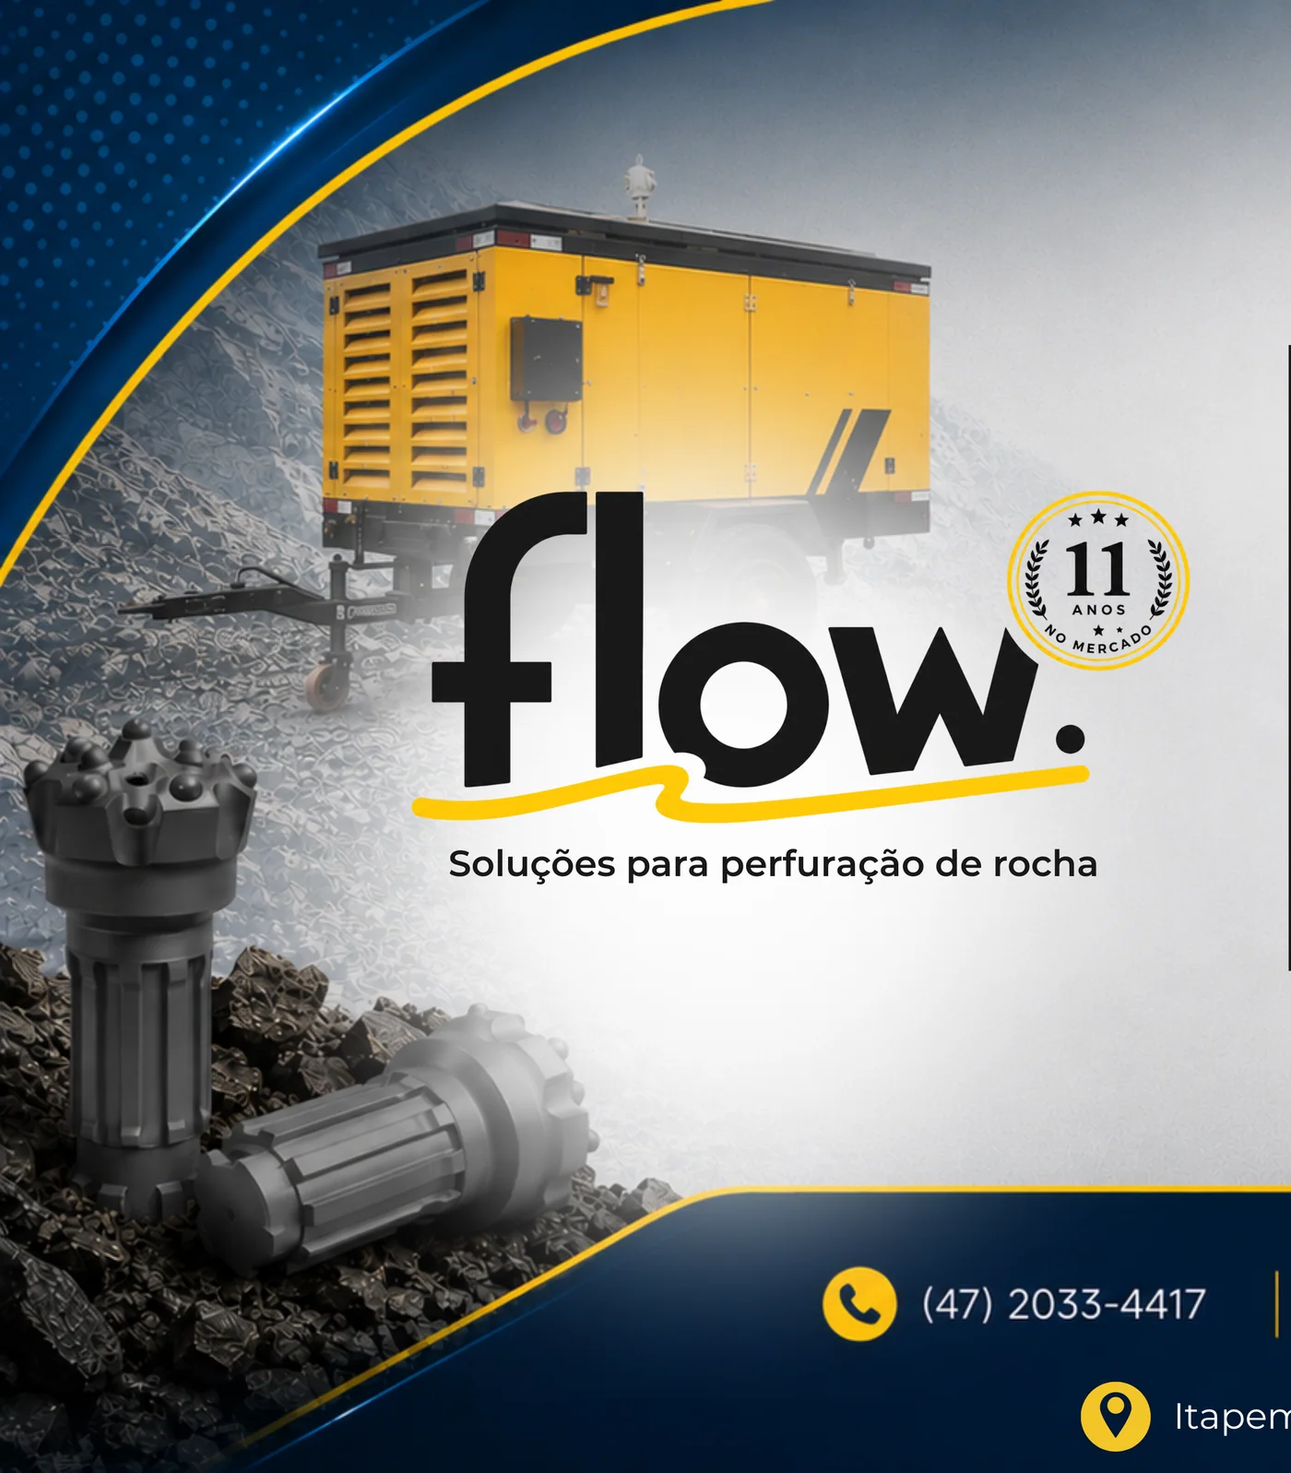
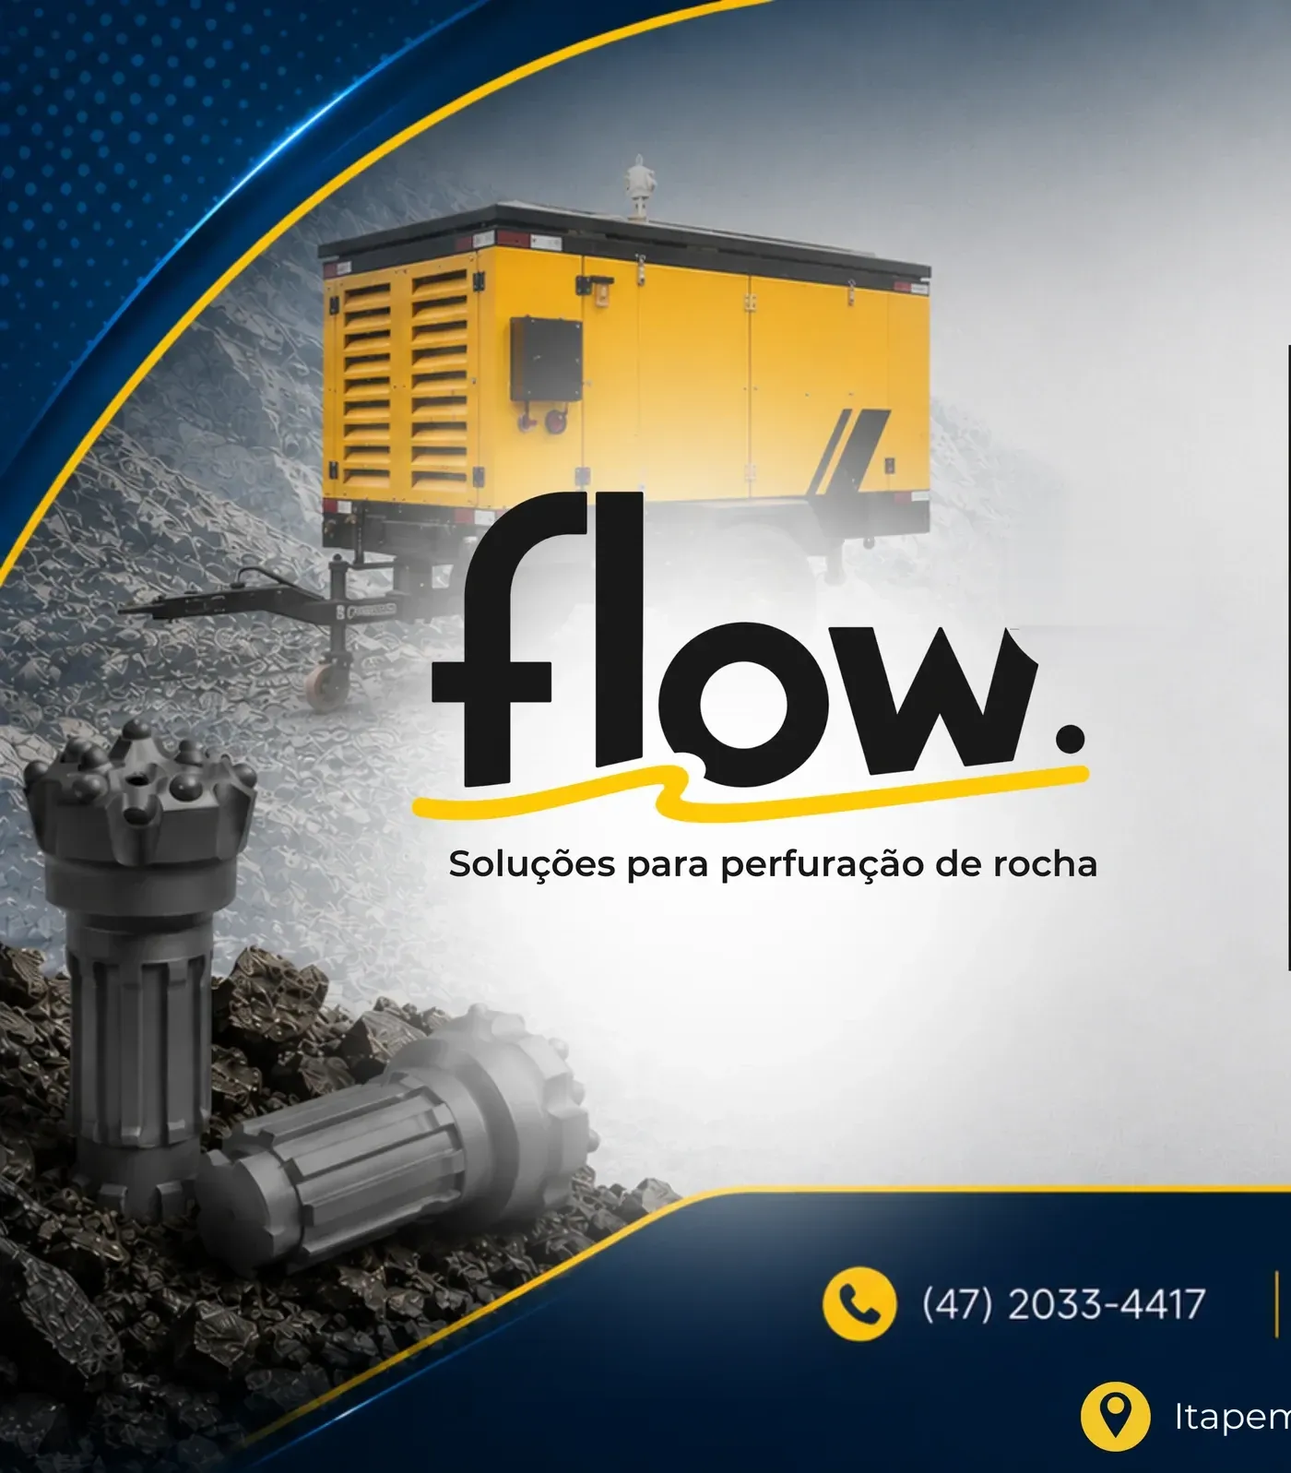
feat: grupo FVT v0.2.1

Changed region(s): [[0.7679, 0.3068, 0.9214, 0.4602]]

diff --git a/flowETritomSite/src/pages/Home.tsx b/flowETritomSite/src/pages/Home.tsx
@@ -20,15 +20,15 @@ const previewIds = ["cir-90", "mission-80", "bit-90", "bomba-4", "tri600", "perf
 const flowPreview = products.filter((p) => previewIds.includes(p.id) && p.brand === "flow");
 const tritonPreview = products.filter((p) => previewIds.includes(p.id) && p.brand === "triton");
 
-/** Miniaturas de produto que aparecem no banner para já sugerir o catálogo de cada marca. */
-const heroThumbs = {
+/** Miniaturas de produto da seção "Sobre o grupo" — já sugerem o catálogo de cada marca. */
+const brandThumbs = {
   flow: [
     { src: "/images/cards/martelo-cir-90.webp", alt: "Martelo DTH CIR 90" },
     { src: "/images/cards/bit-90-mm-cir-90.webp", alt: "Bit 90 mm" },
     { src: "/images/cards/produto-7755.webp", alt: "Motobomba submersa 4 polegadas" },
   ],
   triton: [
-    { src: "/brand/compressor.webp", alt: "Compressor portátil Triton" },
+    { src: "/images/cards/triton-compressor.webp", alt: "Compressor portátil Triton TRI600A-18G2" },
     { src: "/images/cards/img-7101.webp", alt: "Hastes e perfuratriz pneumática" },
     { src: "/images/cards/img-7391.webp", alt: "Bits roscados para desmonte" },
   ],
@@ -39,7 +39,7 @@ function ThumbStrip({ items, ring }: { items: { src: string; alt: string }[]; ri
     <ul className="mt-5 grid grid-cols-3 gap-2">
       {items.map((t) => (
         <li key={t.src} className={`overflow-hidden rounded-xl border ${ring} bg-white`}>
-          <img src={t.src} alt={t.alt} className="aspect-square h-auto w-full object-cover" width={300} height={300} loading="eager" decoding="async" />
+          <img src={t.src} alt={t.alt} className="aspect-square h-auto w-full object-cover" width={300} height={300} loading="lazy" decoding="async" />
         </li>
       ))}
     </ul>
@@ -50,9 +50,109 @@ export function Home() {
   return (
     <main>
       {/* ------------------------------------------------------------------ */}
-      {/* HERO — Flow | Grupo FVT | Triton, com foto de fundo segmentada       */}
+      {/* HERO — painéis Flow | Triton, emblema do Grupo FVT no centro         */}
       {/* ------------------------------------------------------------------ */}
-      <section className="relative overflow-hidden bg-navy text-white" aria-label="Grupo FVT — Flow e Triton">
+      <section className="relative bg-navy" aria-label="Grupo FVT — Flow e Triton">
+        <div className="relative grid lg:min-h-[86vh] lg:grid-cols-2">
+          {/*
+            As artes de fundo (flow-hero / triton-hero, 1400x1597) já trazem a logo de cada marca na faixa
+            central da imagem — por isso não repetimos a logo por cima.
+            Mobile: a arte ocupa os 58% superiores do painel (inteira, sem corte da logo) e o conteúdo fica no
+            terço inferior sobre navy. Desktop: a arte preenche o painel, deslocada para fora do centro
+            (translate de 8%, sem zoom, para preservar as máquinas) para a logo não ficar atrás do emblema FVT; um vignette escurece a costura.
+          */}
+          {/* FLOW */}
+          <article className="relative min-h-[88vh] overflow-hidden bg-navy sm:min-h-[80vh] lg:min-h-0">
+            <img
+              src="/brand/flow-hero.webp"
+              alt="Flow — soluções para perfuração de rocha: compressor e bits DTH"
+              className="absolute inset-x-0 top-0 h-[58%] w-full object-cover object-[70%_center] lg:inset-0 lg:h-full lg:-translate-x-[8%] lg:object-[center_40%]"
+              width={1400}
+              height={1597}
+              fetchPriority="high"
+            />
+            <div className="absolute inset-0 bg-gradient-to-t from-navy from-42% via-navy/85 via-52% to-transparent to-62% lg:from-0% lg:via-navy/75 lg:via-28% lg:to-58%" aria-hidden="true" />
+            <div className="absolute inset-y-0 right-0 hidden w-[24%] bg-gradient-to-r from-transparent to-navy to-60% lg:block" aria-hidden="true" />
+            <div className="relative flex h-full min-h-[88vh] flex-col justify-end p-6 pb-28 text-white sm:min-h-[80vh] sm:p-10 sm:pb-32 lg:min-h-[86vh] lg:pb-12 lg:pr-36 xl:pr-44">
+              <p className="text-[10px] font-bold uppercase tracking-[0.22em] text-yellow">Marca do Grupo FVT</p>
+              <h2 className="mt-2 max-w-md font-display text-3xl sm:text-4xl">Equipamentos para poços artesianos</h2>
+              <div className="mt-5 flex flex-wrap gap-3">
+                <Link to="/flow" className="rounded-full bg-yellow px-5 py-3 text-sm font-bold text-navy hover:bg-[#ffd54a]">
+                  Ver catálogo Flow
+                </Link>
+                <a href={CATALOG_URL} className="rounded-full border border-white/30 px-5 py-3 text-sm font-bold text-white hover:bg-white/10">
+                  PDF 2025
+                </a>
+              </div>
+              <ul className="mt-5 flex flex-wrap gap-2 text-xs font-semibold uppercase tracking-wide">
+                {flowCategories.slice(1).map((c) => (
+                  <li key={c.id} className="rounded-full bg-white/15 px-3 py-1">
+                    {c.label}
+                  </li>
+                ))}
+              </ul>
+            </div>
+          </article>
+
+          {/* EMBLEMA DO GRUPO FVT — no mobile fica entre os painéis; no desktop, centro exato entre as marcas */}
+          <div className="relative z-10 -mb-10 -mt-24 flex flex-col items-center text-center lg:absolute lg:left-1/2 lg:top-1/2 lg:my-0 lg:-translate-x-1/2 lg:-translate-y-1/2">
+            <div className="rounded-full bg-navy/40 p-2 shadow-[0_30px_80px_rgba(0,0,0,0.55)] ring-1 ring-gold/40 backdrop-blur-sm">
+              <Link to="/grupo-fvt" aria-label="Conhecer o Grupo FVT">
+                <LogoGrupoFVT className="h-40 w-40 sm:h-48 sm:w-48 lg:h-56 lg:w-56 xl:h-64 xl:w-64" />
+              </Link>
+            </div>
+            <h1 className="mt-4 rounded-full bg-navy/80 px-4 py-2 font-display text-sm tracking-[0.12em] text-white shadow-lg ring-1 ring-white/10 backdrop-blur sm:text-base">
+              Flow e Triton. <span className="text-yellow">Um só grupo.</span>
+            </h1>
+          </div>
+
+          {/* TRITON */}
+          <article className="relative min-h-[88vh] overflow-hidden bg-navy sm:min-h-[80vh] lg:min-h-0">
+            <img
+              src="/brand/triton-hero.webp"
+              alt="Triton — máquinas e compressores: perfuratriz em pedreira"
+              className="absolute inset-x-0 top-0 h-[58%] w-full object-cover object-[30%_center] lg:inset-0 lg:h-full lg:translate-x-[8%] lg:object-[center_40%]"
+              width={1400}
+              height={1597}
+              fetchPriority="high"
+            />
+            <div className="absolute inset-0 bg-gradient-to-t from-navy from-42% via-navy/85 via-52% to-transparent to-62% lg:from-0% lg:via-navy/75 lg:via-28% lg:to-58%" aria-hidden="true" />
+            <div className="absolute inset-y-0 left-0 hidden w-[24%] bg-gradient-to-l from-transparent to-navy to-60% lg:block" aria-hidden="true" />
+            {/* Mobile: funde o topo da arte Triton com o emblema que fica na costura entre os painéis */}
+            <div className="absolute inset-x-0 top-0 h-[16%] bg-gradient-to-b from-navy via-navy/70 to-transparent lg:hidden" aria-hidden="true" />
+            <div className="relative flex h-full min-h-[88vh] flex-col justify-end p-6 pt-28 text-white sm:min-h-[80vh] sm:p-10 sm:pt-32 lg:min-h-[86vh] lg:pl-36 lg:pt-10 xl:pl-44">
+              <p className="text-[10px] font-bold uppercase tracking-[0.22em] text-yellow">Marca do Grupo FVT</p>
+              <h2 className="mt-2 max-w-md font-display text-3xl sm:text-4xl">Máquinas e compressores</h2>
+              <div className="mt-5 flex flex-wrap gap-3">
+                <Link to="/triton" className="rounded-full bg-yellow px-5 py-3 text-sm font-bold text-navy hover:bg-[#ffd54a]">
+                  Ver catálogo Triton
+                </Link>
+                <WhatsAppButton href={waLink("Olá! Quero falar com a Triton sobre máquinas e compressores.")} variant="outline">
+                  Falar com vendas
+                </WhatsAppButton>
+              </div>
+              <ul className="mt-5 flex flex-wrap gap-2 text-xs font-semibold uppercase tracking-wide">
+                {tritonCategories.slice(1).map((c) => (
+                  <li key={c.id} className="rounded-full bg-white/15 px-3 py-1">
+                    {c.label}
+                  </li>
+                ))}
+              </ul>
+            </div>
+          </article>
+
+          {/* Divisor central (desktop) */}
+          <div className="pointer-events-none absolute inset-y-0 left-1/2 hidden w-px -translate-x-1/2 bg-gradient-to-b from-transparent via-gold/70 to-transparent lg:block" aria-hidden="true" />
+        </div>
+      </section>
+
+      {/* Diferenciais em barra (alta visibilidade, logo abaixo do banner) */}
+      <Differentials layout="strip" />
+
+      {/* ------------------------------------------------------------------ */}
+      {/* SOBRE O GRUPO — Flow | FVT | Triton com foto de fundo segmentada     */}
+      {/* ------------------------------------------------------------------ */}
+      <section className="relative overflow-hidden bg-navy text-white" aria-labelledby="sobre-grupo-title">
         <div className="absolute inset-0 grid grid-cols-1 lg:grid-cols-2" aria-hidden="true">
           {/* Lado Flow: perfuração de poço artesiano. Lado Triton: perfuratriz e compressor em pedreira. */}
           <img
@@ -61,7 +161,7 @@ export function Home() {
             className="hidden h-full w-full object-cover object-center opacity-45 lg:block"
             width={1080}
             height={720}
-            fetchPriority="high"
+            loading="lazy"
           />
           <img
             src="/images/setor-mineracao.webp"
@@ -69,15 +169,15 @@ export function Home() {
             className="h-full w-full object-cover object-center opacity-45"
             width={1080}
             height={720}
-            fetchPriority="high"
+            loading="lazy"
           />
         </div>
         <div className="absolute inset-0 bg-[radial-gradient(ellipse_at_center,rgba(11,31,51,0.45)_0%,rgba(11,31,51,0.82)_65%,rgba(11,31,51,0.95)_100%)]" aria-hidden="true" />
         <div className="absolute inset-y-0 left-1/2 hidden w-px -translate-x-1/2 bg-gradient-to-b from-transparent via-gold/60 to-transparent lg:block" aria-hidden="true" />
 
-        <div className="relative mx-auto max-w-7xl px-4 pb-12 pt-10 sm:px-6 sm:pb-16 sm:pt-12 lg:pb-20 lg:pt-14">
+        <div className="relative mx-auto max-w-7xl px-4 py-14 sm:px-6 sm:py-16 lg:py-20">
           <p className="text-center text-[11px] font-semibold uppercase tracking-[0.3em] text-yellow sm:text-xs">
-            {group.name} · Itapema · Santa Catarina · 11 anos
+            Sobre o grupo · Itapema<span className="hidden sm:inline"> · Santa Catarina</span> · 11 anos
           </p>
 
           <div className="mt-8 grid items-center gap-6 sm:grid-cols-2 lg:grid-cols-[1fr_minmax(280px,0.9fr)_1fr] lg:gap-8">
@@ -85,9 +185,9 @@ export function Home() {
             <article className="order-2 rounded-3xl bg-white/95 p-5 text-navy shadow-[0_24px_60px_rgba(0,0,0,0.35)] backdrop-blur sm:p-6 lg:order-1">
               <p className="text-[10px] font-bold uppercase tracking-[0.22em] text-gold">Marca do Grupo FVT</p>
               <LogoFlow className="mt-2 h-12 w-auto sm:h-14" />
-              <h2 className="mt-4 font-display text-2xl leading-tight">Poços artesianos e perfuração DTH</h2>
+              <h3 className="mt-4 font-display text-2xl leading-tight">Poços artesianos e perfuração DTH</h3>
               <p className="mt-2 text-sm leading-6 text-ink/75">Martelos DTH, bits, brocas rotativas, hastes e motobombas.</p>
-              <ThumbStrip items={heroThumbs.flow} ring="border-navy/10" />
+              <ThumbStrip items={brandThumbs.flow} ring="border-navy/10" />
               <ul className="mt-4 flex flex-wrap gap-1.5 text-[11px] font-semibold uppercase tracking-wide text-navy">
                 {flowCategories.slice(1).map((c) => (
                   <li key={c.id} className="rounded-full bg-sand px-2.5 py-1">
@@ -102,13 +202,13 @@ export function Home() {
 
             {/* GRUPO FVT */}
             <div className="order-1 flex flex-col items-center text-center sm:col-span-2 lg:order-2 lg:col-span-1">
-              <LogoGrupoFVT className="h-44 w-44 drop-shadow-[0_24px_50px_rgba(0,0,0,0.5)] sm:h-52 sm:w-52 lg:h-64 lg:w-64 xl:h-72 xl:w-72" />
-              <h1 className="mt-6 font-display text-3xl leading-tight sm:text-4xl">
-                Flow e Triton. <span className="text-yellow">Um só grupo.</span>
-              </h1>
+              <LogoGrupoFVT className="h-44 w-44 drop-shadow-[0_24px_50px_rgba(0,0,0,0.5)] sm:h-52 sm:w-52 lg:h-64 lg:w-64 xl:h-72 xl:w-72" loading="lazy" />
+              <h2 id="sobre-grupo-title" className="mt-6 font-display text-3xl leading-tight sm:text-4xl">
+                {group.name}: <span className="text-yellow">{group.mission.title}</span>
+              </h2>
               <p className="mt-3 max-w-md text-sm leading-6 text-white/80 sm:text-base">
-                {group.mission.title} Equipamentos para perfuração, bombeamento e operação de campo — da ferramenta à máquina, com estoque
-                em Itapema e envio para todo o Brasil.
+                Flow e Triton pertencem ao Grupo FVT. Equipamentos para perfuração, bombeamento e operação de campo — da ferramenta à
+                máquina, com estoque em Itapema e envio para todo o Brasil.
               </p>
               <div className="mt-6 flex flex-wrap justify-center gap-3">
                 <Link to="/grupo-fvt" className="rounded-full bg-yellow px-5 py-3 text-sm font-bold text-navy hover:bg-[#ffd54a]">
@@ -124,9 +224,9 @@ export function Home() {
             <article className="order-3 rounded-3xl border border-white/15 bg-navy/75 p-5 shadow-[0_24px_60px_rgba(0,0,0,0.35)] backdrop-blur sm:p-6">
               <p className="text-[10px] font-bold uppercase tracking-[0.22em] text-yellow">Marca do Grupo FVT</p>
               <LogoTriton variant="light" className="mt-2 h-14 w-auto sm:h-16" />
-              <h2 className="mt-4 font-display text-2xl leading-tight">Máquinas e compressores</h2>
+              <h3 className="mt-4 font-display text-2xl leading-tight">Máquinas e compressores</h3>
               <p className="mt-2 text-sm leading-6 text-white/80">Perfuratrizes, compressores, desmonte de rocha, fundações e sondagem.</p>
-              <ThumbStrip items={heroThumbs.triton} ring="border-white/15" />
+              <ThumbStrip items={brandThumbs.triton} ring="border-white/15" />
               <ul className="mt-4 flex flex-wrap gap-1.5 text-[11px] font-semibold uppercase tracking-wide">
                 {tritonCategories.slice(1).map((c) => (
                   <li key={c.id} className="rounded-full bg-white/12 px-2.5 py-1">
@@ -142,17 +242,14 @@ export function Home() {
         </div>
       </section>
 
-      {/* Diferenciais em barra (alta visibilidade, logo abaixo do banner) */}
-      <Differentials layout="strip" />
-
       {/* ------------------------------------------------------------------ */}
-      {/* VÍDEO — produto FVT trabalhando (antes das avaliações)              */}
+      {/* VÍDEO — produto FVT trabalhando                                      */}
       {/* ------------------------------------------------------------------ */}
-      <section className="relative overflow-hidden bg-navy px-4 py-16 text-white sm:px-6" aria-labelledby="video-title">
+      <section className="relative overflow-hidden bg-navy-2 px-4 py-16 text-white sm:px-6" aria-labelledby="video-title">
         <div className="absolute inset-0 opacity-15" aria-hidden="true">
-          <img src="/brand/compressor.webp" alt="" className="h-full w-full object-cover" width={1400} height={800} loading="lazy" />
+          <img src="/images/flow-build.webp" alt="" className="h-full w-full object-cover" width={1400} height={800} loading="lazy" />
         </div>
-        <div className="absolute inset-0 bg-gradient-to-r from-navy via-navy/90 to-navy/70" aria-hidden="true" />
+        <div className="absolute inset-0 bg-gradient-to-r from-navy-2 via-navy-2/90 to-navy-2/70" aria-hidden="true" />
         <div className="relative mx-auto grid max-w-7xl items-center gap-10 lg:grid-cols-[1.1fr_0.9fr]">
           <div>
             <p className="text-xs font-bold uppercase tracking-[0.25em] text-yellow">Grupo FVT em operação</p>
@@ -185,86 +282,6 @@ export function Home() {
       </section>
 
       <GoogleReviews />
-
-      {/* ------------------------------------------------------------------ */}
-      {/* MARCAS — painéis Flow / Triton                                       */}
-      {/* ------------------------------------------------------------------ */}
-      <section className="lg:grid lg:min-h-[78vh] lg:grid-cols-2" aria-label="Marcas">
-        <article className="relative min-h-[70vh] overflow-hidden border-b border-navy/10 lg:border-b-0 lg:border-r">
-          <img
-            src="/brand/flow-hero.webp"
-            alt="Compressor e bits Flow em operação de perfuração"
-            className="absolute inset-0 h-full w-full object-cover"
-            width={1400}
-            height={800}
-            loading="lazy"
-          />
-          <div className="absolute inset-0 bg-gradient-to-t from-black/80 via-white/55 to-white/30" />
-          <div className="relative flex min-h-[70vh] flex-col justify-end p-6 sm:p-10">
-            <div className="w-fit rounded-2xl bg-white/95 px-5 py-4 shadow-lg">
-              <p className="mb-2 text-[10px] font-bold uppercase tracking-[0.22em] text-gold">Marca do Grupo FVT</p>
-              <LogoFlow className="h-16 w-auto sm:h-20 lg:h-24" />
-            </div>
-            <h2 className="mt-6 max-w-md font-display text-3xl text-navy sm:text-4xl">Equipamentos para poços artesianos</h2>
-            <p className="mt-3 max-w-md text-sm leading-6 text-ink/80 sm:text-base">
-              Martelos DTH, bits, brocas rotativas, hastes e motobombas. Estoque em Itapema e envio para todo o Brasil.
-            </p>
-            <div className="mt-6 flex flex-wrap gap-3">
-              <Link to="/flow" className="rounded-full bg-navy px-5 py-3 text-sm font-bold text-white">
-                Ver catálogo Flow
-              </Link>
-              <a href={CATALOG_URL} className="rounded-full border border-navy/20 bg-white/80 px-5 py-3 text-sm font-bold text-navy">
-                PDF 2025
-              </a>
-            </div>
-            <ul className="mt-6 flex flex-wrap gap-2 text-xs font-semibold uppercase tracking-wide text-navy">
-              {flowCategories.slice(1).map((c) => (
-                <li key={c.id} className="rounded-full bg-white/80 px-3 py-1">
-                  {c.label}
-                </li>
-              ))}
-            </ul>
-          </div>
-        </article>
-
-        <article className="relative min-h-[70vh] overflow-hidden">
-          <img
-            src="/brand/triton-hero.webp"
-            alt="Perfuratriz Triton em pedreira"
-            className="absolute inset-0 h-full w-full object-cover"
-            width={1400}
-            height={800}
-            loading="lazy"
-          />
-          <div className="absolute inset-0 bg-gradient-to-t from-navy via-navy/55 to-navy/15" />
-          <div className="relative flex min-h-[70vh] flex-col justify-end p-6 text-white sm:p-10">
-            <p className="text-[10px] font-bold uppercase tracking-[0.22em] text-yellow">Marca do Grupo FVT</p>
-            <LogoTriton variant="light" className="mt-2 h-20 w-auto sm:h-24 lg:h-28 drop-shadow-sm" />
-            <h2 className="mt-6 max-w-md font-display text-3xl sm:text-4xl">Máquinas e compressores</h2>
-            <p className="mt-3 max-w-md text-sm leading-6 text-white/85 sm:text-base">
-              Perfuratrizes, compressores, ferramentas de desmonte, fundações e sondagem — a linha pesada da operação.
-            </p>
-            <div className="mt-6 flex flex-wrap gap-3">
-              <Link to="/triton" className="rounded-full bg-yellow px-5 py-3 text-sm font-bold text-navy">
-                Ver catálogo Triton
-              </Link>
-              <WhatsAppButton
-                href={waLink("Olá! Quero falar com a Triton sobre máquinas e compressores.")}
-                variant="outline"
-              >
-                Falar com vendas
-              </WhatsAppButton>
-            </div>
-            <ul className="mt-6 flex flex-wrap gap-2 text-xs font-semibold uppercase tracking-wide">
-              {tritonCategories.slice(1).map((c) => (
-                <li key={c.id} className="rounded-full bg-white/15 px-3 py-1">
-                  {c.label}
-                </li>
-              ))}
-            </ul>
-          </div>
-        </article>
-      </section>
 
       {/* ------------------------------------------------------------------ */}
       {/* PRODUTOS — prévia                                                    */}

diff --git a/flowETritomSite/src/pages/GrupoFTV.tsx b/flowETritomSite/src/pages/GrupoFTV.tsx
@@ -8,7 +8,13 @@ export function GrupoFVT() {
   return (
     <main>
       <section className="relative overflow-hidden bg-navy text-white">
-        <img src="/brand/banner.webp" alt="" className="absolute inset-0 h-full w-full object-cover opacity-25" />
+        <img
+          src="/images/setor-mineracao.webp"
+          alt=""
+          className="absolute inset-0 h-full w-full object-cover opacity-30"
+          width={1080}
+          height={720}
+        />
         <div className="absolute inset-0 bg-gradient-to-b from-navy/80 via-navy/75 to-navy" />
         <div className="relative mx-auto grid max-w-7xl items-center gap-10 px-4 py-14 sm:px-6 lg:grid-cols-[1.1fr_0.9fr] lg:py-20">
           <div>

diff --git a/flowETritomSite/src/components/Logos.tsx b/flowETritomSite/src/components/Logos.tsx
@@ -10,8 +10,8 @@ export function LogoFlow({ className = "h-11", variant = "dark" }: LogoProps) {
       src={src}
       alt="flow. soluções para perfuração de rocha"
       className={`block w-auto object-contain object-left ${className}`}
-      width={420}
-      height={213}
+      width={1572}
+      height={895}
     />
   );
 }
